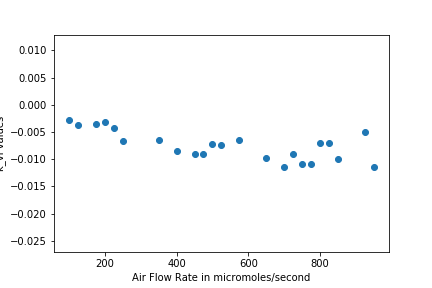
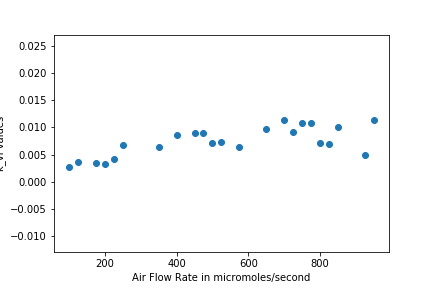
Final Update for Gas Transfer 03/11 at 11:12 AM

diff --git a/Gas_Transfer/Team7_Gas_Transfer_DA.md b/Gas_Transfer/Team7_Gas_Transfer_DA.md
@@ -1,3 +1,38 @@
+#Gas Transfer Lab Analysis
+##Group 7
+###Ken Rivero-Rivera  - 8 hours
+###Catherine Johnson  10 hours
+
+####Number 2: Plot a representative subset of the data showing dissolved oxygen vs. time. Perhaps show 5 plots on one graph.
+![](https://github.com/klr227/EnvELab/blob/master/Gas_Transfer/DO_vs_time_5graphs.png)
+**Figure 1: Graph of DO v. Time**
+
+####Number 3: Calculate C* based on the average water temperature, barometric pressure, and the equation from environmental processes analysis called O2_sat. C* = P_O2 * e^((1727/T) - 2.105) where T is in Kelvin, P_O2 is the partial pressure of oxygen in atm, and C* is  in mg/L.
+
+C* = 8.896 mg/L
+
+####Number 4: Estimate k_vl using linear regression and equation (103) for each data set.
+
+####Number 5: Create a graph with a representative plot showing the model curve (as a smooth curve) and the data from one experiment. You will need to derive the equation for the concentration of oxygen as a function of time based on equation (103).
+![](https://github.com/klr227/EnvELab/blob/master/Gas_Transfer/ModelandExperimentData_Cgraph.png)
+**Figure 2:Model vs. Observed Data for k_vl**
+
+####Number 6: Plot k_vl as a function of airflow rate (µmole/sec).
+![](https://github.com/klr227/EnvELab/blob/master/Gas_Transfer/k_vl_vs_Airflow_Rates.png)
+**Figure 3: k_vl vs. Air flow rate (umole/s)**
+
+####Number 7: Plot OTE as a function of airflow rate (µmole/s) with the oxygen deficit set at 6 mg/L.
+
+![](https://github.com/klr227/EnvELab/blob/master/Gas_Transfer/OTE_vs_Airflow_Rate.png)
+**Figure 4: OTE vs. Airflow rate (umole/s)**
+
+####Number 8: Comment on the oxygen transfer efficiency and the trend or trends that you observe:
+Oxygen transfer efficiency decreases as air flow increases.
+
+####Number 9: Propose a change to the experimental apparatus that would increase the efficiency.
+To increase the oxygen transfer efficiency, the airflow must be increased, based on part 8. If the needle valves were larger (i.e. let more air through) that should increase the OTE in this experiment.
+
+####Number 10: Verify that your report and graphs meet the requirements.
 ```python
 from aguaclara.core.units import unit_registry as u
 import aguaclara.research.environmental_processes_analysis as epa
@@ -130,12 +165,14 @@ k_vl = [] #initialize k_vl values
 for i in range(airflows.size):
   C_values = DO_data[:][i]
   t_values = time_data[:][i]
-  y = np.log((C_star-C_values)/(C_star-C_0_values[i]))
-  x = t_values - t_0[0]
+  y = np.log((C_star-C_values)/(C_star-C_0[i]))
+  x = -1*(t_values - t_0[i])
   slope, intercept, r_value,p_value,std_err =stats.linregress(x,y)
   k_vl.append(slope)
 
-
+k_vl
+DO_data[1]
+DO_data[:][1]
 #number 5: plot model and actual data -- will need to create a model
 #This random function is used to index any of the flow rates randomnly
 rand = randint(0,airflows.size)
@@ -144,10 +181,10 @@ t = np.linspace(0,100)
 #Calculate for the concentration of dissolved oxygen using equation (103) from the lab manual and solving for C.
 #Used the C_0 values from a random airflow and K_vl values from the same airflow
 C = C_star - ((C_star-C_0[rand])* np.exp(-k_vl[rand]*t))
-
-plt.plot(t,C,'g')
-plt.plot(time_data[:][rand],DO_data[:][rand])
-plt.legend(['Model Concentration','Experimental Concentration %i'])
+a = airflows[rand].magnitude
+plt.plot(t,C,'g',label = 'Model Concentration')
+plt.plot(time_data[:][rand],DO_data[:][rand],label = '%.2f micromoles/second' %a)
+plt.legend(loc='best')
 plt.xlabel('Time (seconds)')
 plt.ylabel('Concentration of Oxygen (mg/L)')
 plt.savefig('/Users/kenrivero/Documents/EnvELab/Gas_Transfer/ModelandExperimentData_Cgraph')
@@ -171,6 +208,8 @@ for k in range(airflows.size):
   value = V*k_vl[k]*(O2_deficit)/(f_O2*airflows[k]*MWO2)
   OTE.append(value)
 
+OTE = [x.magnitude for x in OTE]
+airflows = [x.magnitude for x in airflows]
 plt.scatter(airflows,OTE)
 plt.xlabel('Air Flow Rate in micromoles/second')
 plt.ylabel('Oxygen Transfer Efficiency')
